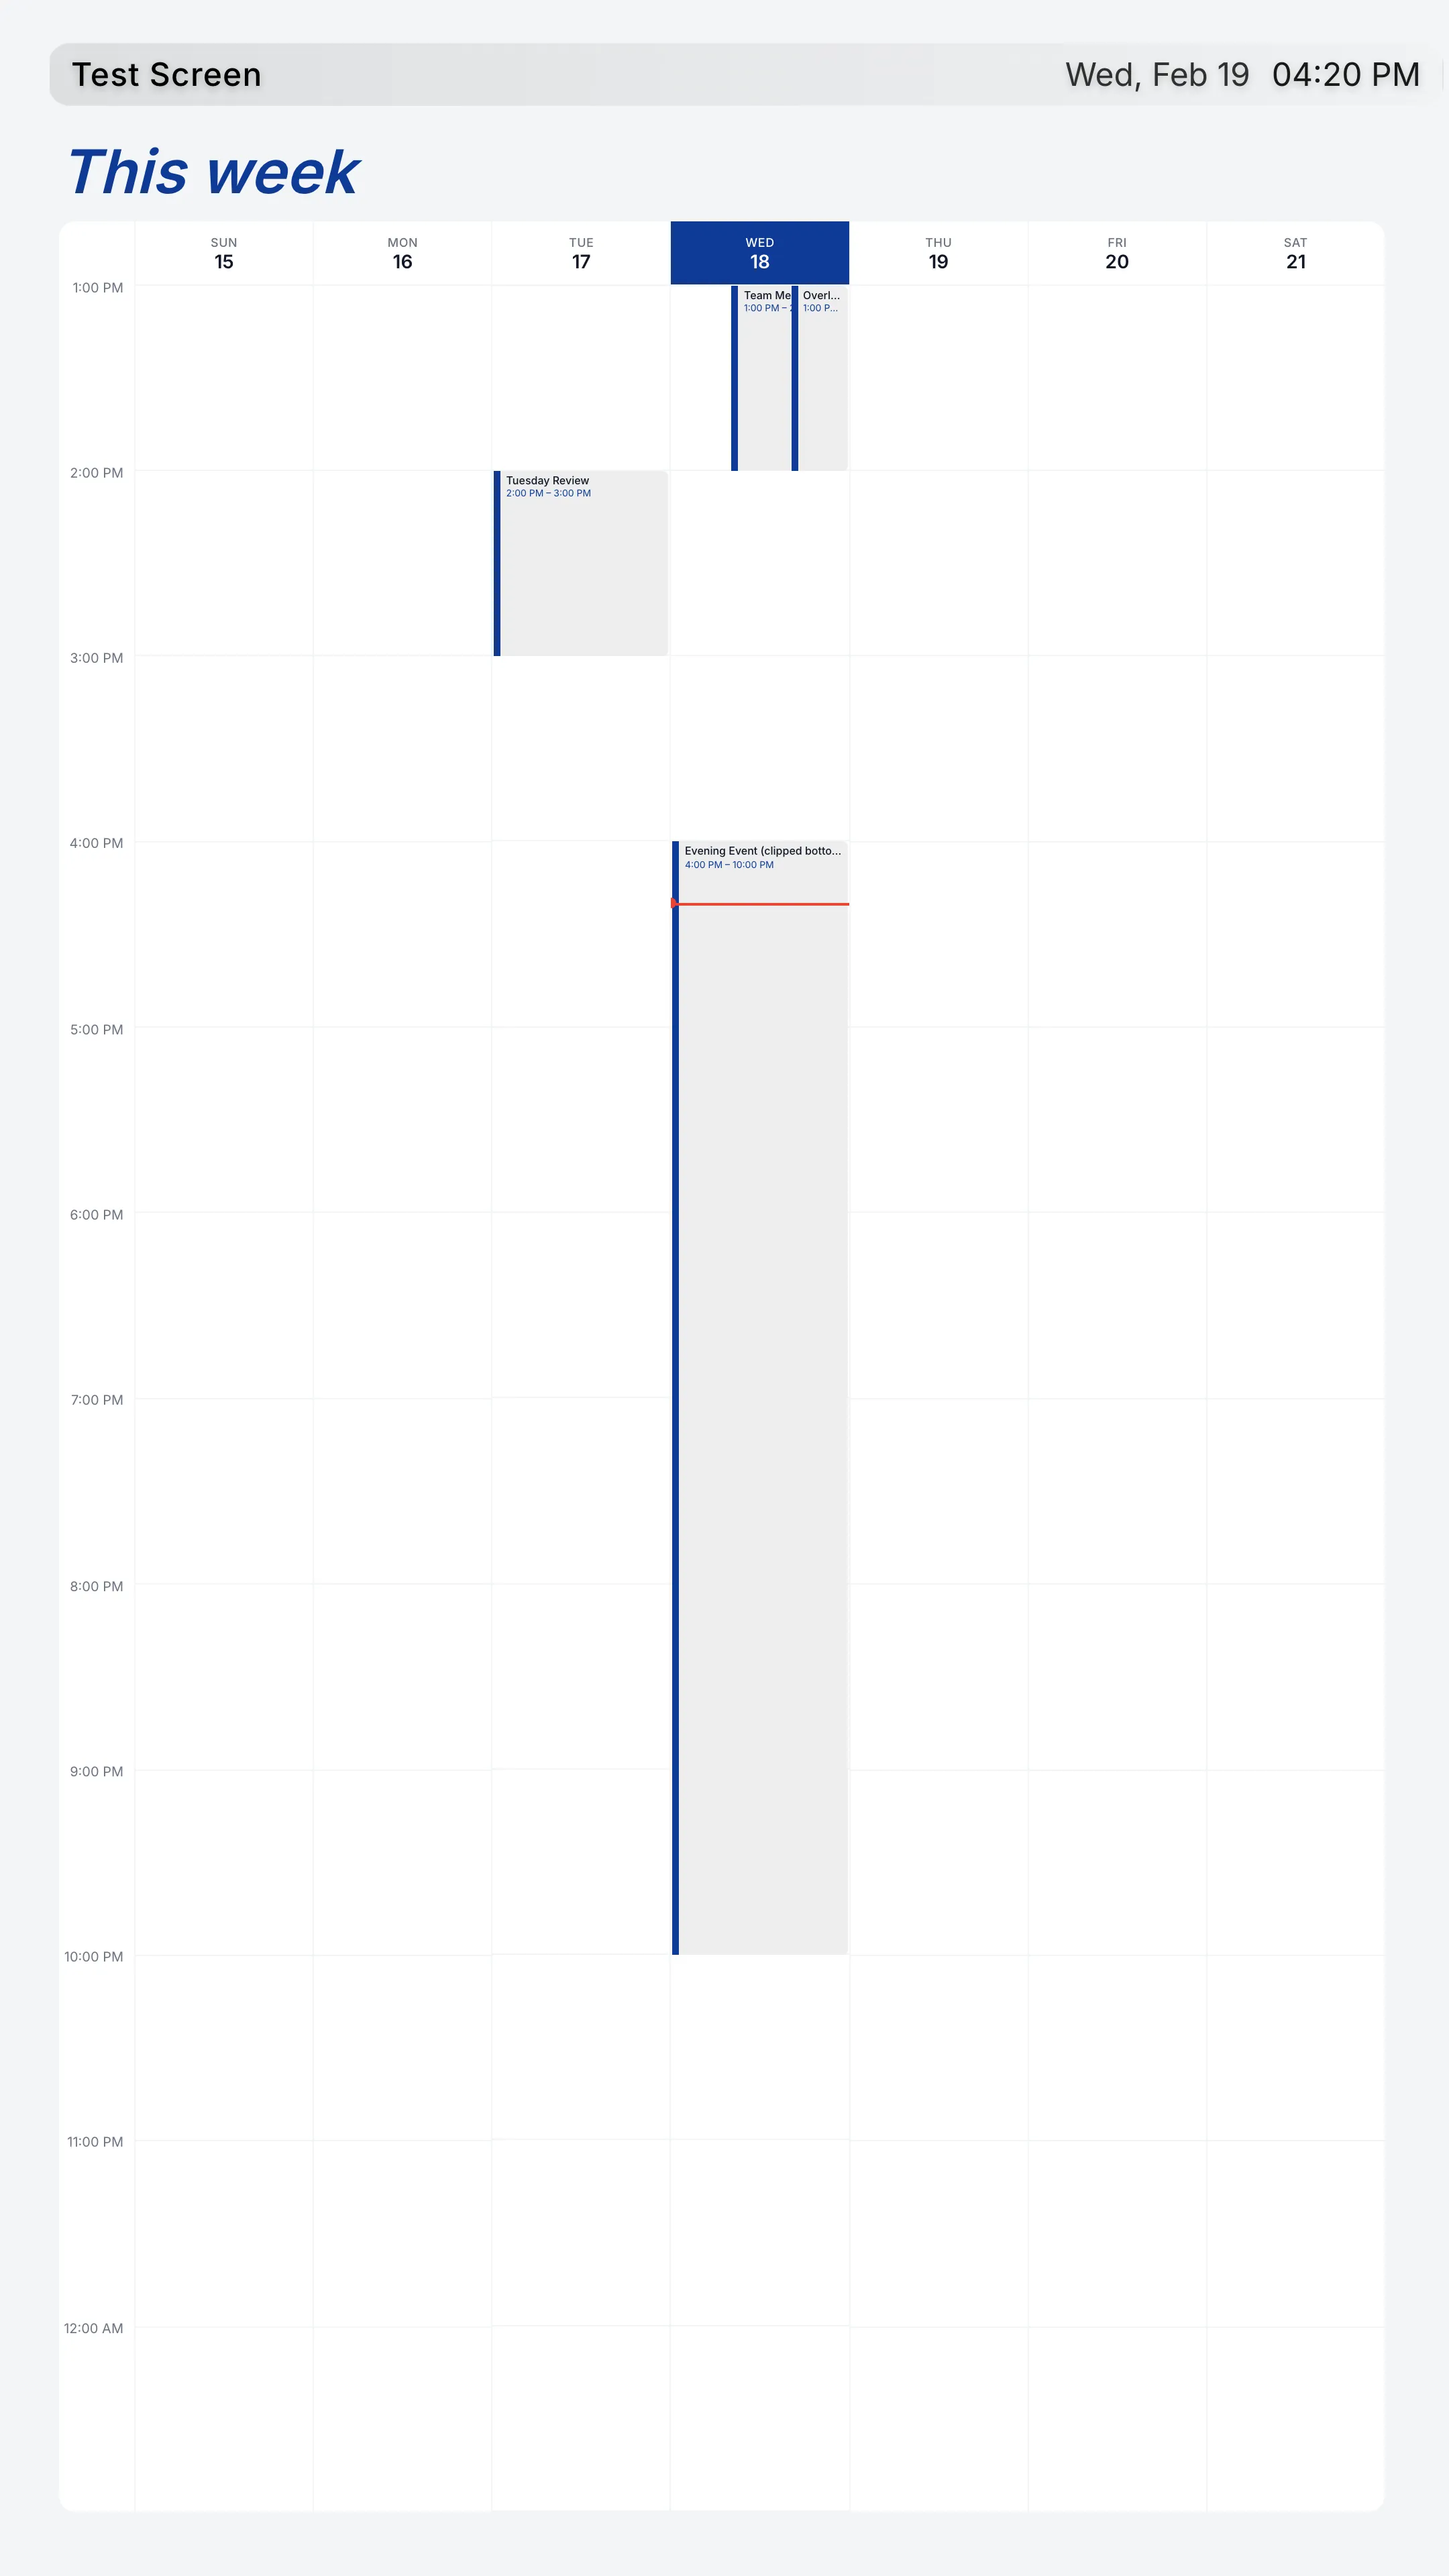
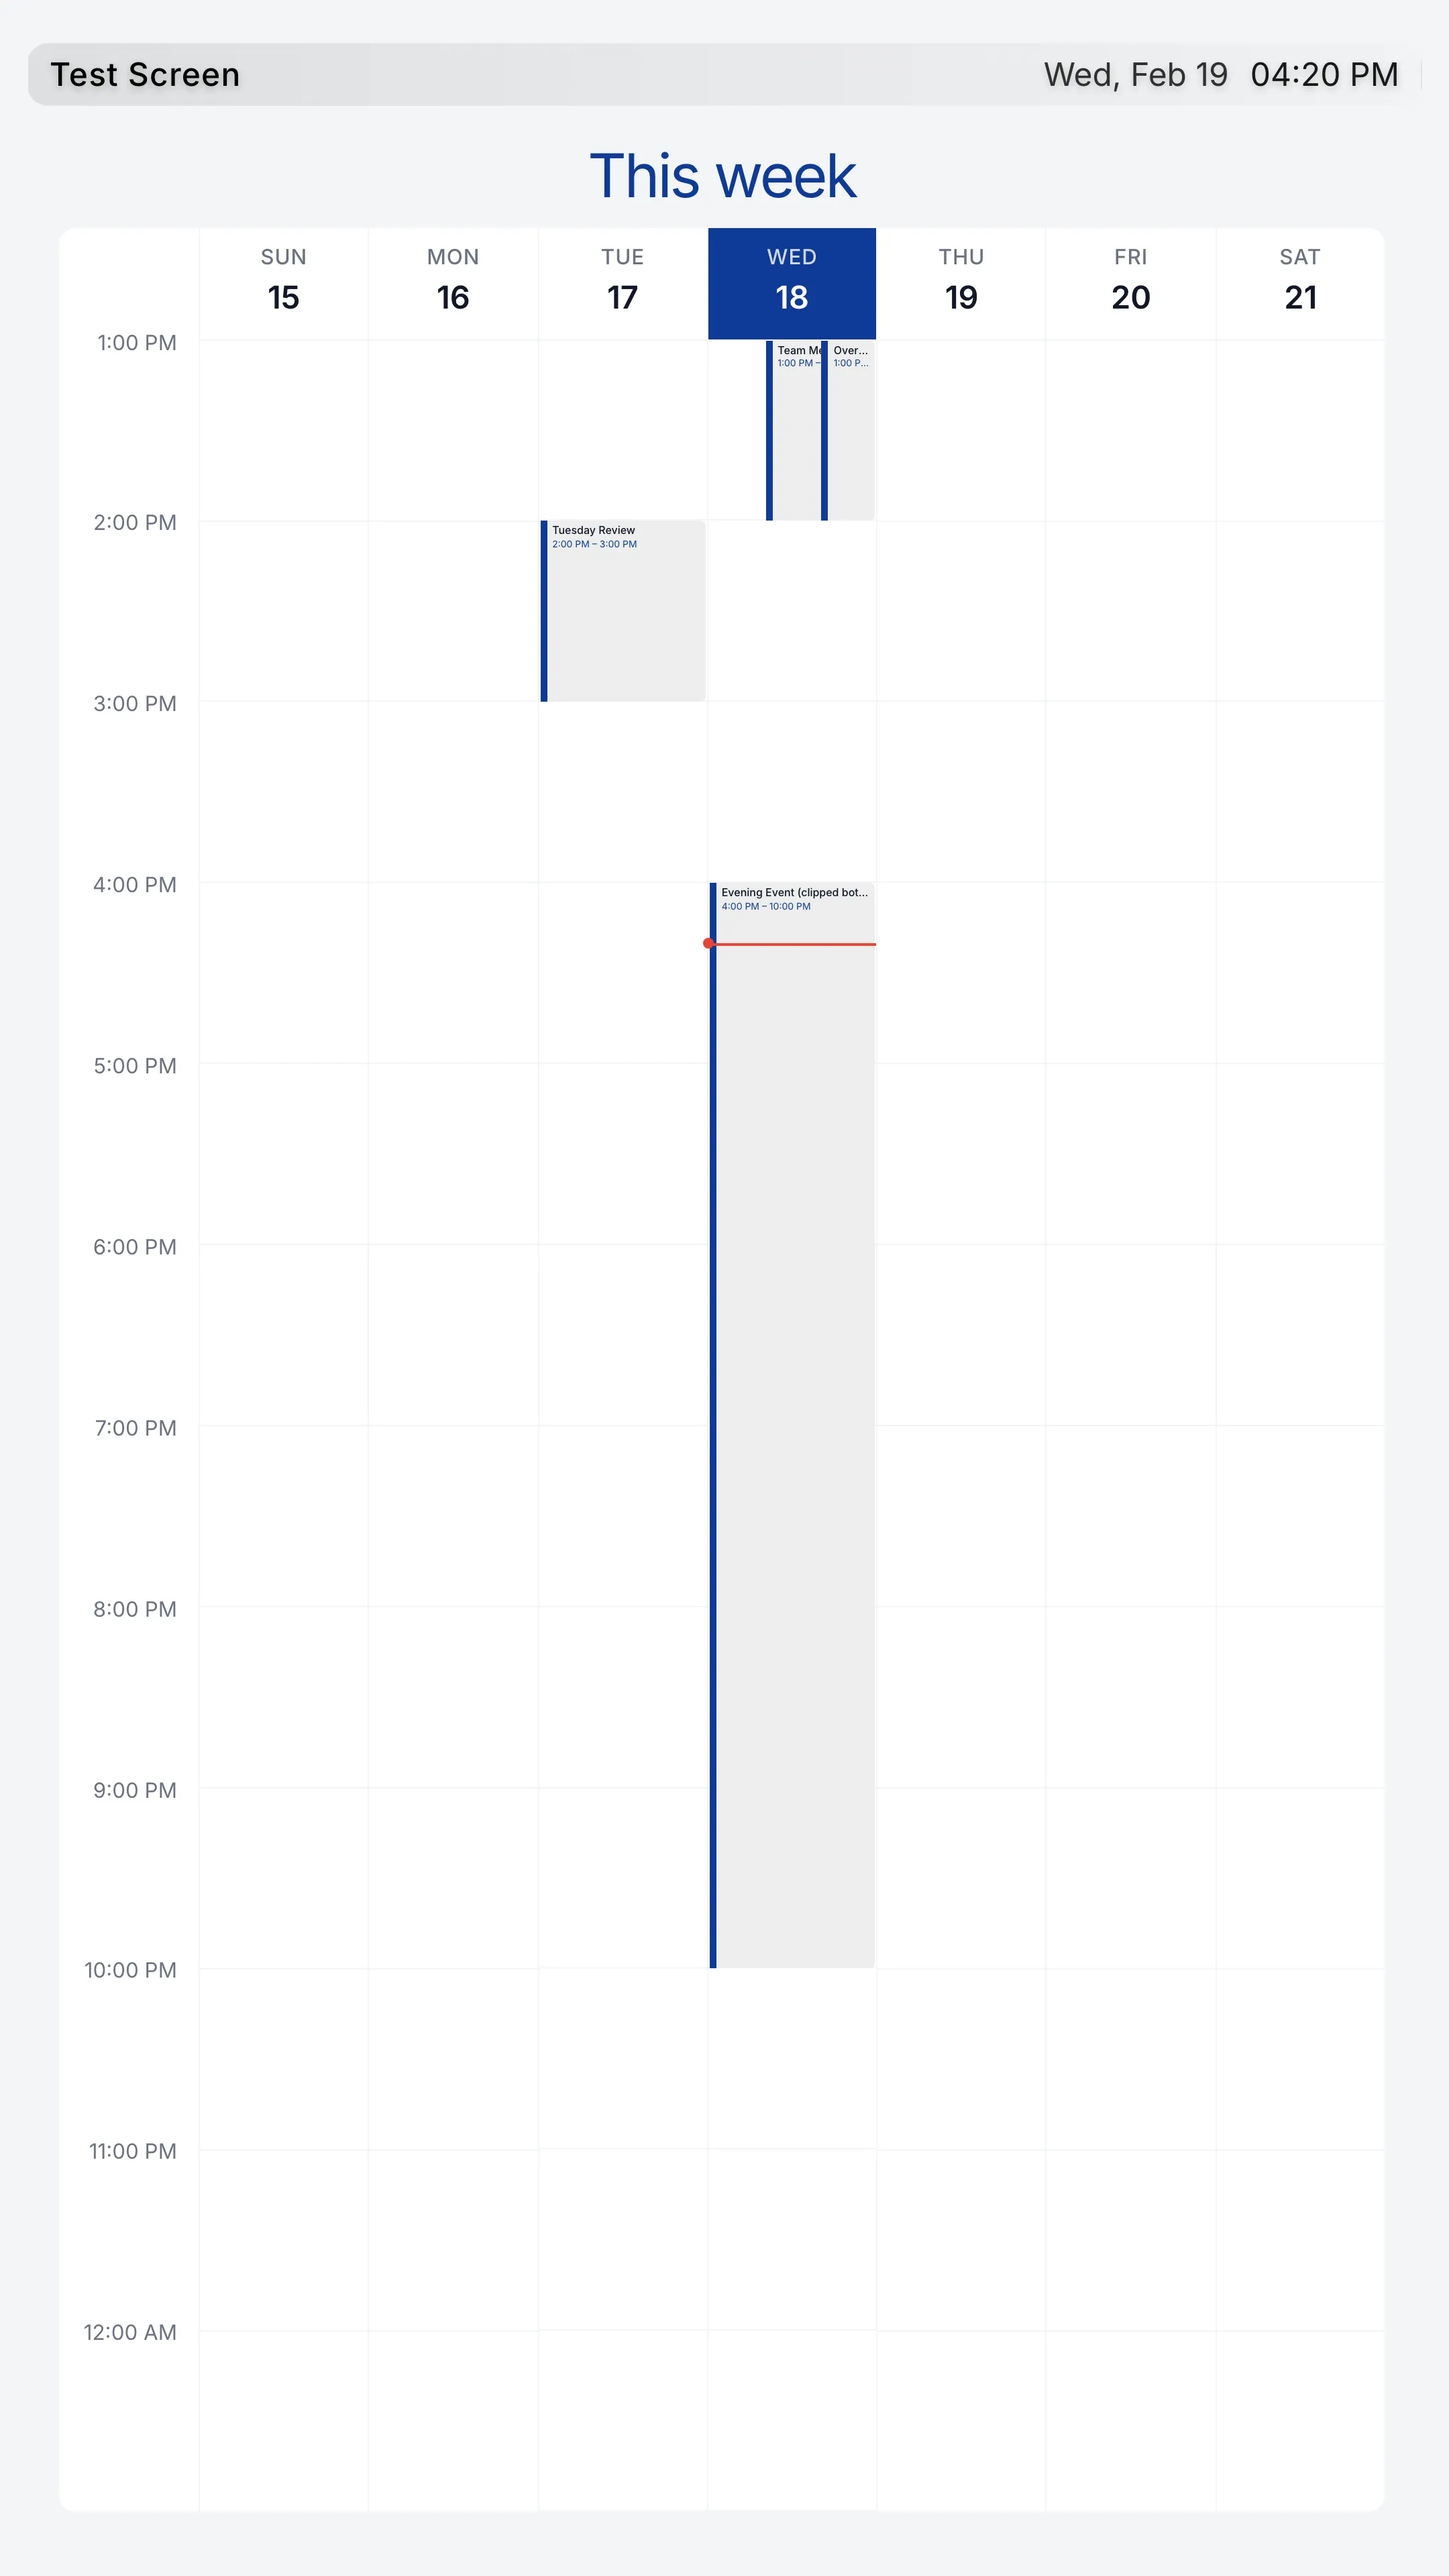
fix(calendar): fix current time indicator clipping and header alignment
- Set day-body overflow to visible so the time indicator dot is not clipped
- Adjust current time indicator dot left offset to -0.27rem
- Remove horizontal margin from .header to fix app header alignment

diff --git a/edge-apps/edge-apps-library/src/components/weekly-calendar-view/weekly-calendar-view-styles.ts b/edge-apps/edge-apps-library/src/components/weekly-calendar-view/weekly-calendar-view-styles.ts
@@ -129,7 +129,7 @@ export const COMPONENT_CSS = `:host {
   position: relative;
   display: flex;
   flex-direction: column;
-  overflow: hidden;
+  overflow: visible;
 }
 
 .hour-row {
@@ -204,7 +204,7 @@ export const COMPONENT_CSS = `:host {
 .current-time-indicator::before {
   content: '';
   position: absolute;
-  left: -0.25rem;
+  left: -0.27rem;
   top: -0.25rem;
   width: 0.5rem;
   height: 0.5rem;

diff --git a/edge-apps/calendar-new/src/css/style.css b/edge-apps/calendar-new/src/css/style.css
@@ -28,7 +28,7 @@ auto-scaler {
 
 .header {
   flex-shrink: 0;
-  margin: 0.75rem 1rem 0;
+  margin: 0.75rem 0 0;
 }
 
 .content {
